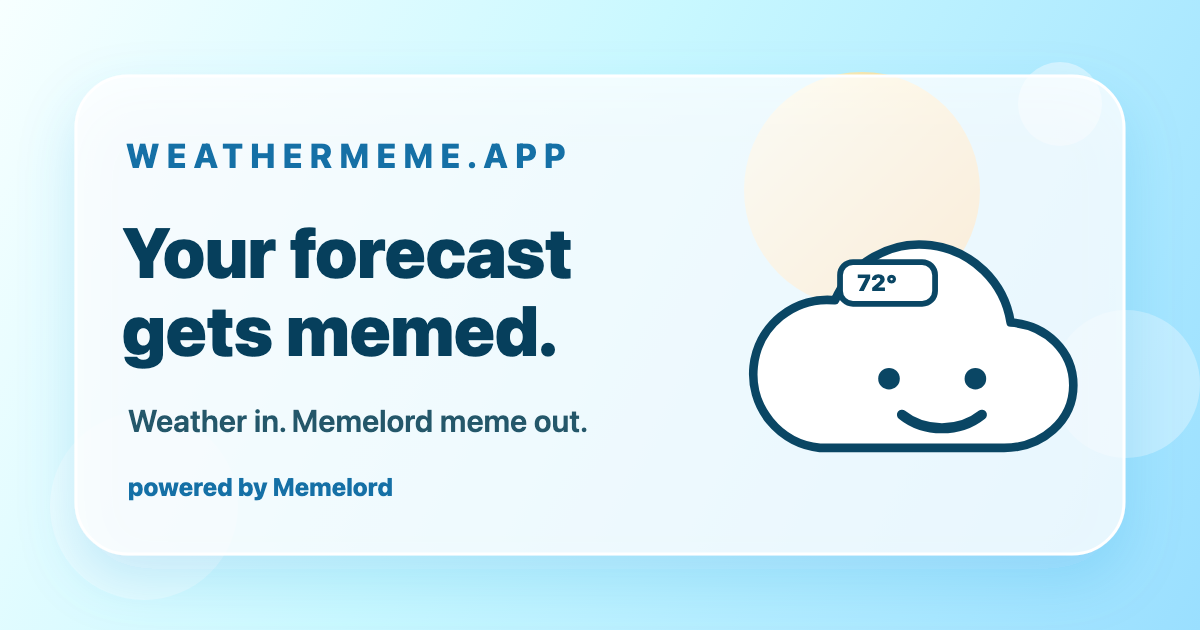
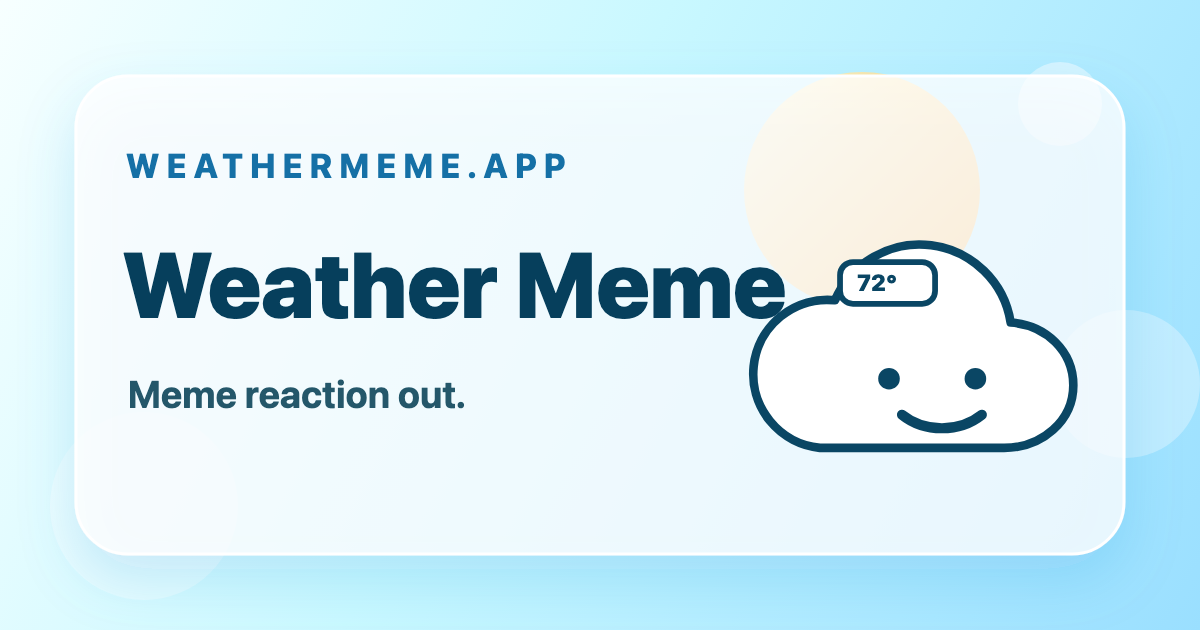
feat: polish weather meme sharing

Changed region(s): [[0.0925, 0.3619, 0.6783, 0.6937], [0.0925, 0.2111, 0.4933, 0.3016], [0.0925, 0.754, 0.3392, 0.8143]]

diff --git a/src/App.css b/src/App.css
@@ -29,6 +29,7 @@
 
 .glass-panel {
   max-width: 760px;
+  margin: 0 auto;
   padding: clamp(24px, 5vw, 44px);
 }
 
@@ -91,7 +92,7 @@ button:disabled {
 
 .weather-card {
   max-width: 760px;
-  margin-top: 18px;
+  margin: 18px auto 0;
   padding: 22px;
 }
 
@@ -195,7 +196,7 @@ button:disabled {
 
 .prompt {
   max-width: 760px;
-  margin: 18px 0 0;
+  margin: 18px auto 0;
   padding: 14px 18px;
   color: #24576a;
   font-size: 0.95rem;
@@ -214,7 +215,7 @@ button:disabled {
 
 .result {
   max-width: 580px;
-  margin: 18px 0 0;
+  margin: 18px auto 0;
   padding: 14px;
 }
 
@@ -275,88 +276,55 @@ code {
   font-size: 0.85em;
 }
 
-.memelord-powered-badge {
+.memelord-powered-stamp {
   position: fixed;
-  right: 18px;
-  bottom: 18px;
+  right: 16px;
+  bottom: 14px;
   z-index: 10;
   display: inline-flex;
-  flex-direction: column;
-  min-width: 190px;
-  border-width: 2px;
-  border-style: solid;
-  border-color: #ffffff #404040 #404040 #ffffff;
-  padding: 2px;
-  background: #c0c0c0;
-  box-shadow:
-    1px 1px 0 #000000,
-    inset 1px 1px 0 #dfdfdf,
-    inset -1px -1px 0 #808080;
-  color: #000000;
-  font-family: "MS Sans Serif", "Microsoft Sans Serif", Tahoma, Geneva, sans-serif;
-  font-size: 11px;
-  font-weight: 700;
-  letter-spacing: 0;
+  align-items: flex-start;
+  color: #111111;
+  font-family: Arial, Helvetica, sans-serif;
   text-decoration: none;
-  text-transform: none;
   image-rendering: pixelated;
+  filter: drop-shadow(2px 3px 0 rgba(0, 0, 0, 0.35));
 }
 
-.memelord-powered-badge:hover {
+.memelord-powered-stamp:hover {
   transform: translate(-1px, -1px);
 }
 
-.memelord-powered-badge:active {
-  border-color: #404040 #ffffff #ffffff #404040;
-  box-shadow:
-    inset 1px 1px 0 #808080,
-    inset -1px -1px 0 #dfdfdf;
-  transform: translate(0, 0);
-}
-
-.memelord-powered-title {
-  display: flex;
-  align-items: center;
-  min-height: 17px;
-  padding: 1px 22px 1px 5px;
-  background: linear-gradient(90deg, #000080, #1084d0);
-  color: #ffffff;
-  line-height: 1;
-  position: relative;
-}
-
-.memelord-powered-title::after {
-  content: "×";
-  position: absolute;
-  right: 3px;
-  top: 2px;
-  display: grid;
-  place-items: center;
-  width: 13px;
-  height: 11px;
-  border-width: 1px;
-  border-style: solid;
-  border-color: #ffffff #404040 #404040 #ffffff;
-  background: #c0c0c0;
-  color: #000000;
-  font-size: 10px;
-  line-height: 1;
-}
-
-.memelord-powered-body {
+.stamp-copy {
   display: inline-flex;
-  align-items: center;
-  gap: 6px;
-  padding: 7px 8px;
-  border-width: 1px;
-  border-style: solid;
-  border-color: #808080 #ffffff #ffffff #808080;
-  background: #c0c0c0;
+  flex: 0 0 auto;
+  flex-direction: column;
+  align-items: flex-end;
   line-height: 1;
+  transform: rotate(-0.5deg);
 }
 
-.memelord-powered-body span {
-  color: #863bff;
+.stamp-ribbon {
+  border: 2px outset #ff8b7f;
+  padding: 3px 8px 4px;
+  background: #e7241e;
+  color: #ffffff;
+  font-size: 13px;
+  font-weight: 900;
+  text-shadow: 1px 1px 0 rgba(0, 0, 0, 0.45);
+  white-space: nowrap;
+}
+
+.stamp-name {
+  margin-top: -1px;
+  padding: 3px 8px 4px;
+  background: #ffef4f;
+  color: #000000;
+  font-size: 22px;
+  font-weight: 950;
+  letter-spacing: 0.02em;
+  text-transform: uppercase;
+  text-shadow: 2px 2px 0 rgba(0, 0, 0, 0.2);
+  box-shadow: 2px 2px 0 #000000;
 }
 
 @media (max-width: 760px) {
@@ -378,4 +346,27 @@ code {
   .emoji-cloud-three {
     opacity: 0.45;
   }
+
+  .memelord-powered-stamp {
+    right: 8px;
+    bottom: 8px;
+    justify-content: flex-end;
+    filter: drop-shadow(1px 2px 0 rgba(0, 0, 0, 0.35));
+  }
+
+  .memelord-powered-stamp:hover {
+    transform: translate(-1px, -1px);
+  }
+
+  .stamp-ribbon {
+    padding: 2px 4px 3px;
+    font-size: 8px;
+  }
+
+  .stamp-name {
+    padding: 2px 5px 3px;
+    font-size: 14px;
+    box-shadow: 1px 1px 0 #000000;
+  }
+
 }

diff --git a/src/App.tsx b/src/App.tsx
@@ -296,11 +296,10 @@ function App() {
         </figure>
       )}
 
-      <a className="memelord-powered-badge" href="https://www.memelord.com" target="_blank" rel="noreferrer">
-        <span className="memelord-powered-title">weathermeme.exe</span>
-        <span className="memelord-powered-body">
-          <span aria-hidden="true">⚡</span>
-          powered by memelord
+      <a className="memelord-powered-stamp" href="https://www.memelord.com" target="_blank" rel="noreferrer">
+        <span className="stamp-copy">
+          <span className="stamp-ribbon">Another web site powered by</span>
+          <span className="stamp-name">Memelord API</span>
         </span>
       </a>
     </main>

diff --git a/index.html b/index.html
@@ -11,14 +11,14 @@
     <meta property="og:type" content="website" />
     <meta property="og:url" content="https://weathermeme.app/" />
     <meta property="og:title" content="Weather Meme — Your Forecast Becomes a Meme" />
-    <meta property="og:description" content="Local weather in. Memelord reaction meme out." />
+    <meta property="og:description" content="Local weather in. Meme reaction out." />
     <meta property="og:image" content="https://weathermeme.app/og.png" />
     <meta property="og:image:width" content="1200" />
     <meta property="og:image:height" content="630" />
 
     <meta name="twitter:card" content="summary_large_image" />
     <meta name="twitter:title" content="Weather Meme — Your Forecast Becomes a Meme" />
-    <meta name="twitter:description" content="Local weather in. Memelord reaction meme out." />
+    <meta name="twitter:description" content="Local weather in. Meme reaction out." />
     <meta name="twitter:image" content="https://weathermeme.app/og.png" />
   </head>
   <body>